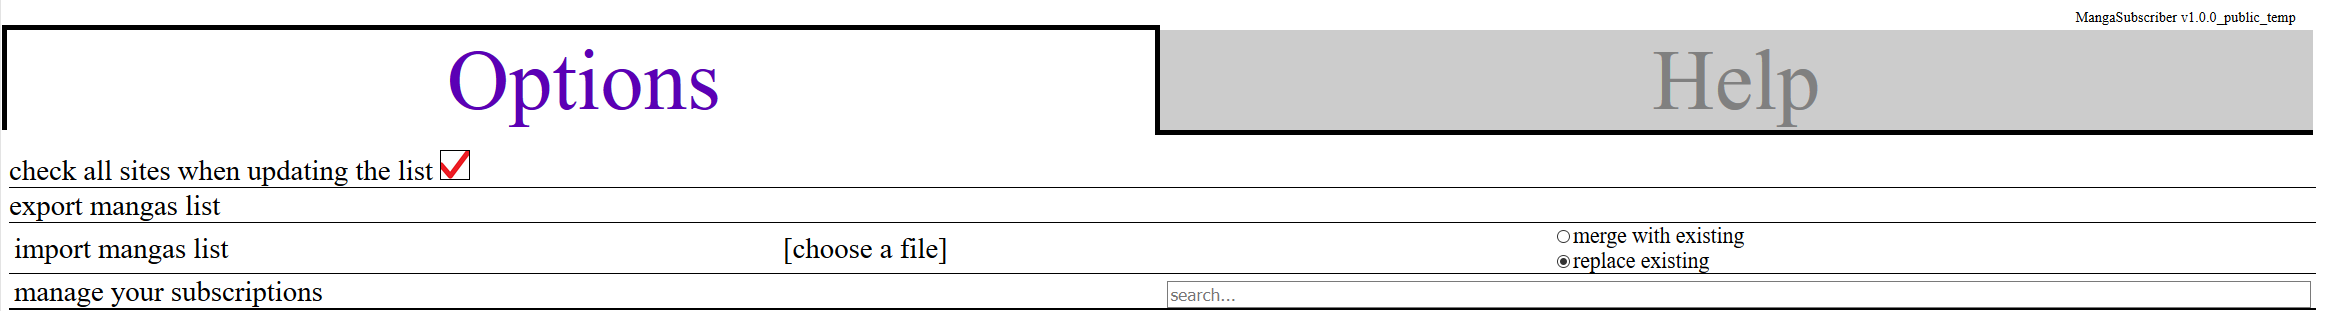
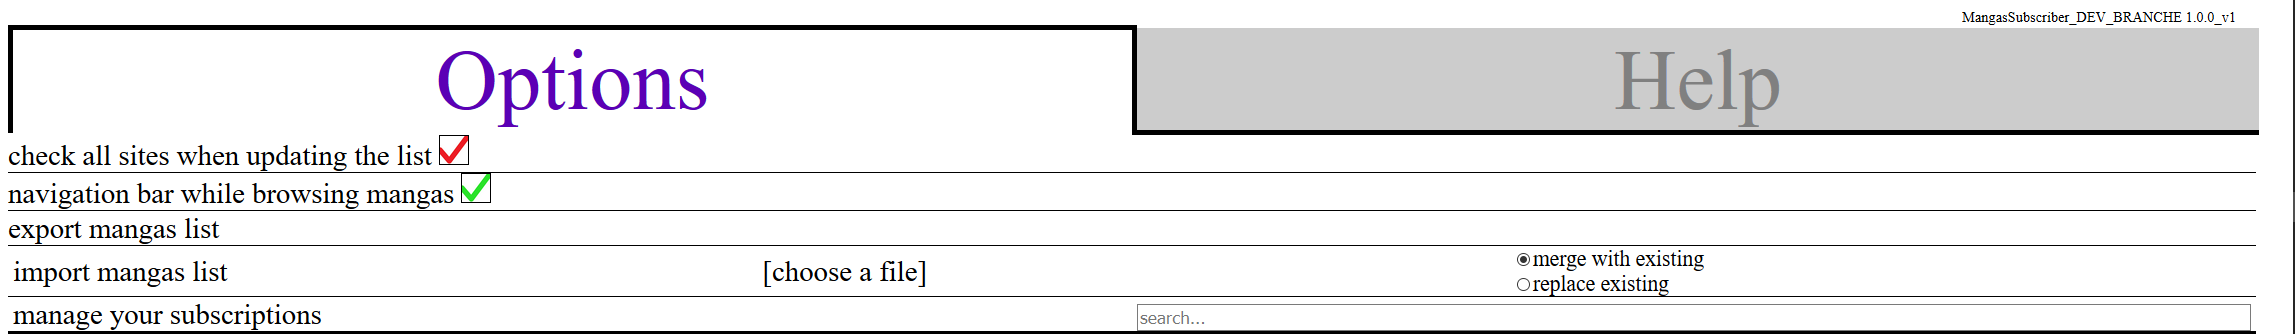
updated help for navigation bar toggle
- entry added to help page for the navigation bar toggle. corresponding image updated.

diff --git a/help/help.html b/help/help.html
@@ -51,6 +51,7 @@
     <div class="section">
         <h3>The Options</h3>
         <div class="inline"><div class="zoom"><img src="../help/images/options_page_nolist.png" class="small_image"></div></div><div class="inline"><ul><li><span class="tooltip_container"><span class="tooltip">By default it is off. Be careful here, as using it for general use will significantly increase update times. Recommended use is to turn it on, manually update the mangas that have a leap in chapters through the options page list, and then turn it off.</span><b>check all sites :</b></span> lets you choose whether to check only a manga's preferred website when looking for new chapters, or all available websites.</li> 
+            <li><b>navigation bar :</b> will let you navigate between <span class="tooltip_container"><span class="tooltip">It only directs to chapters the extension is aware of (ie : chapters that have been found during an update or while reading). Some buttons may not appear when not applicable (for instance, previous when the previous chapter is also the first).</span>chapters (first, previous, next and last)</span> when reading a subscribed manga.</li>
             <li><b>export mangas list :</b> will export your list to a local json file.</li>
             <li> <span class="tooltip_container"><span class="tooltip">click [choose a file] to select a source, then tick either merge (will merge the import with the current data, keeping whatever chapter is already read in either one as read in the final result) or replace (will wipe current data to replace it with the import), then click "import mangas list".</span><b>import mangas list :</b></span> will import data saved in a local file.</li> 
             <li> <span class="tooltip_container"><span class="tooltip">That list can be filtered using the <b>search</b> field.</span><b>manage your subscriptions :</b></span> will open your complete manga list. It offers more options than the popup list.</li> </ul></div>
